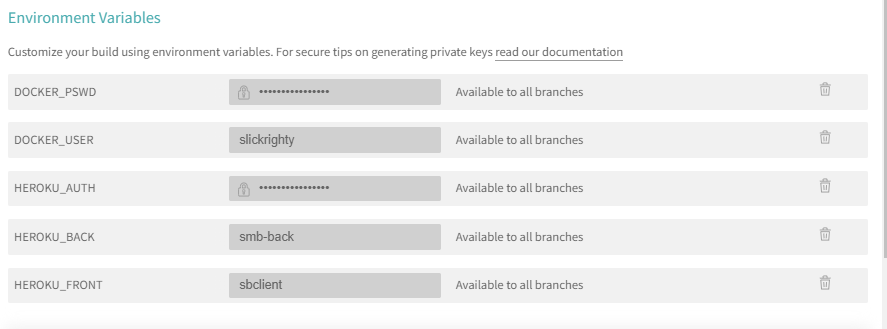
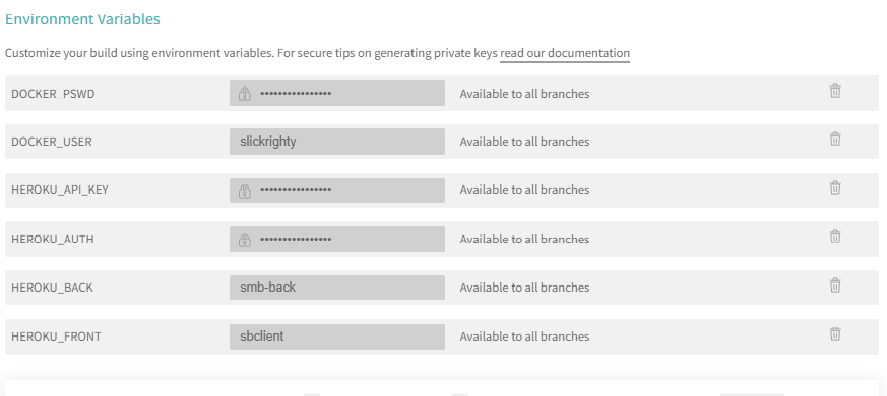
fixed build instructions and use instructions

diff --git a/README.md b/README.md
@@ -1,7 +1,37 @@
 # __**SmartBrain --- Dockerized for Heroku**__
+![SmartBrain](/images/smartbrain.jpg)
 ### __** This repo is created to be used with Docker on Heroku with Travis CI**__
+__** Make sure you use postgreSQL instead of mySQL for this code base.__
+## __🛠 &nbsp;Stack/Technologies used:&nbsp;__
+![Git](https://img.shields.io/badge/-Git-333333?style=flat&logo=git)
+![GitHub](https://img.shields.io/badge/-GitHub-333333?style=flat&logo=github)
+![HTML5](https://img.shields.io/badge/-HTML5-333333?style=flat&logo=HTML5)
+![CSS3](https://img.shields.io/badge/-CSS3-333333?style=flat&logo=CSS3&logoColor=1572B6)
+![SASS](https://img.shields.io/badge/-SASS-333333?style=flat&logo=SASS&logoColor=CD6799)
+![JavaScript](https://img.shields.io/badge/-JavaScript:ES6-333333?style=flat&logo=javascript)
+![React](https://img.shields.io/badge/-React-333333?style=flat&logo=react)
+![Node.js](https://img.shields.io/badge/-Node.js-05122A?style=flat&logo=node.js)
+![Express](https://img.shields.io/badge/-Express-333333?style=flat&logo=express)
+![Postgresql](https://img.shields.io/badge/-PostgreSQL-333333?style=flat&logo=postgresql&logoColor=FFFFFF)
+![Bootstrap](https://img.shields.io/badge/-Bootstrap-333333?style=flat&logo=bootstrap)
+![Heroku](https://img.shields.io/badge/-Heroku-333333?style=flat&logo=heroku)
+![Docker](https://img.shields.io/badge/-Docker-333333?style=flat&logo=docker)
+![made-for-nginx](https://img.shields.io/badge/-NGINX-1f425f.svg)
+![Travis-CI](https://badgen.net/badge/icon/Travis-CI?icon=travis&label)]
+
+# __**To run app:**__
+This app uses a roll-your-own authentication system. So register or use the prebuilt login id: bob@em.com and a password of: 1234. After you signin, you will be displayed an entry screen where you can place the image address to have the system locate the faces in the image. Click [here](http://sbclient.herokuapp.com) to run a live demo of this app (At the bottom are some example photos links that can be used, or Google: image of people's faces and choose the link address for the image you would like to use)
 #
-# __1. On Local Machine (NEEDS ONLY TO BE DONE ONCE)__
+# __**To Build App**__
+#  __1. On Clarifai.com__
+1. Create your own API key by creating and account on Clarifai  
+1. Create a free account
+1. Hit:`CREATE APPLICATION`
+1. Fill in form and hit: `CREATE`
+1. Locate app and click it
+1. expose and copy API key
+#
+# __2. On Local Machine (NEEDS ONLY TO BE DONE ONCE)__
 1. If git is not installed go [here](https://github.com/git-guides/install-git)
 1. Create a new repo on GitHub.com
 1. Clone this repo
@@ -19,17 +49,14 @@
 1. Run: `heroku stack:set container -a <api name>`
 1. Run: `heroku addons:create redistogo:nano -a <api name>`
 1. Run: `heroku addons:create heroku-postgresql:hobby-dev -a <api name>`
+1. Run: heroku config:set CKEY=<Your_CLARIFAI_API_Key> -a <replace with unique name for api>
+1. Run: heroku config:set PGSSLMODE=no-verify -a <replace with unique name for api>
+1. Run: `heroku authorizations:create`
+#
+__Results should lokk simular to this__
+![Heroku Config Variables (API/Backend)](/images/heroku_config_vars.png)
 
-# 2. __On Clarifai.com__
-1. Create your own API key by creating and account on Clarifai  
-1. Create a free account
-1. Hit:`CREATE APPLICATION`
-1. Fill in form and hit: `CREATE`
-1. Locate app and click it
-1. expose and copy API key
-
-
-# 3. __On Travis-CI.com__
+# __3. On Travis-CI.com__
 1. Create an account if you don't already have one
 1. add your repo to Travis
 1. under more options, choose settings
@@ -38,31 +65,20 @@
 * NAME ==> DOCKER_PSWD VALUE ==> <YOUR_DOCKER_PASSWORD> LEAVE TURN ON DISPLAY VALUE IN BUILD LOG off and hit add
 * NAME ==> HEROKU_BACK ==> <replace with unique name for api> TURN ON DISPLAY VALUE IN BUILD LOG and hit add
 * NAME ==> HEROKU_FRONT ==> <replace with unique name for client> TURN ON DISPLAY VALUE IN BUILD LOG and hit add
-* NAME ==> HEROKU+AUTH VALUE ==> <value from running `heroku authorizations:create` and copying value for token > LEAVE TURN ON DISPLAY VALUE IN BUILD LOG off and hit add
+* NAME ==> HEROKU_+_AUTH VALUE ==> <value from running `heroku authorizations:create` and copying value for token > LEAVE TURN ON DISPLAY VALUE IN BUILD LOG off and hit add
 #
 __Results should lokk simular to this__
 ![Travis-CI Environemnt Variables](/images/travis_env_vars.png)
-
-
-
-# 4. __On
-1. Set env var DOCKER_USER to your docker hub id
-2. set env var DOCKER_PSWD to your docker hub password
-3. Set `CKEY` to your API key value from step 4 above
-6. Set `JWT_SECRET` some value used as the seed to JWT to create user auth tokens
-7. Set PORT=80
-8. to start `docker-compose up -V` to stop `docker-compose down -v`
-
-
-
-
-** Make sure you use postgreSQL instead of mySQL for this code base.
-
-
-1. Clone this repo
-2. Run `npm install`
-3. Run `npm start`
-
+#
+# __4. On Local Machine__
+**__\*\* using bash, Git Bash or cmd [Win only]__**
+1. Run: `git push origin master`
+1. Run: `heroku pg:info <replace with unique name for api>`   **__if you receive the message `The local psql command could not be located. For help installing psql, see https://devcenter.heroku.com/articles/heroku-postgresql#local-setup`, you will need to install EDB PostgreSQL on your local machine__**
+1. Run `heroku pg:psql --app <replace with unique name for api> -f ./api/postgres/tables/users.sql`
+1. Run `heroku pg:psql --app <replace with unique name for api> -f ./api/postgres/tables/login.sql`
+1. Run `heroku pg:psql --app <replace with unique name for api> -f ./api/postgres/seed/seed.sql`
+  * Note: At times heroku puts the dyno for the app to sleep, you may need to restart the dyno
+#
 # __Sample Images:__
 
 https://www.vanseodesign.com/blog/wp-content/uploads/2010/03/model.jpg
